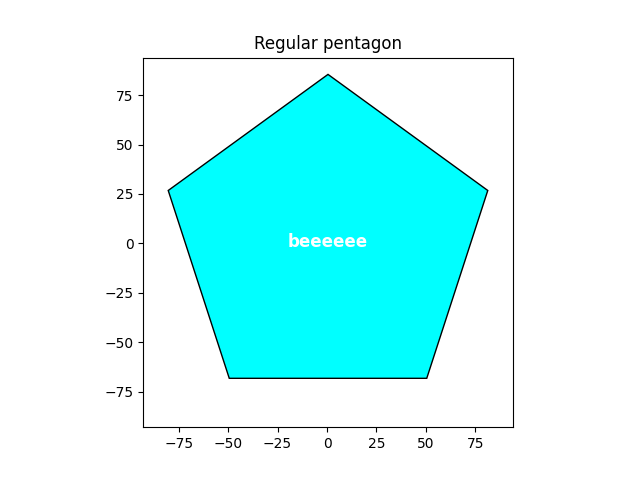
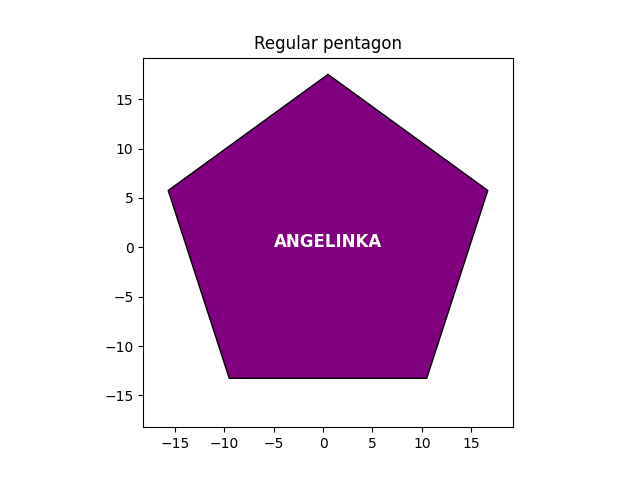
little misprints fixed

diff --git a/IGI/LR4/task_1/main.py b/IGI/LR4/task_1/main.py
@@ -2,6 +2,11 @@ from classes.student import *
 from my_console.console import *
 from functions.func_of_file import *
 
+'''
+Yaroshevich Ksenia
+v 1.0.0
[phone redacted]
+'''
 
 dictionary = dict()
 while True: